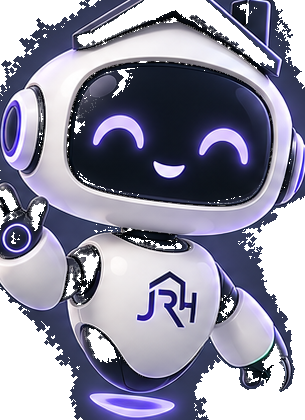
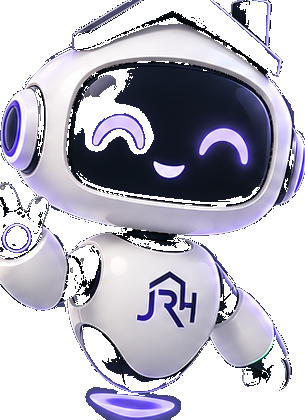
Show the full JRH IA bot on mobile home and chat instead of the head crop.

diff --git a/remax_commission_calculator/static/css/mobile-app.css b/remax_commission_calculator/static/css/mobile-app.css
@@ -382,7 +382,7 @@
 
     .m-jrh-card__head {
         display: flex;
-        align-items: flex-start;
+        align-items: center;
         justify-content: space-between;
         gap: 12px;
         margin-bottom: 14px;
@@ -397,21 +397,26 @@
 
     .m-jrh-card__bot {
         flex: 0 0 auto;
-        width: 44px;
-        height: 44px;
+        width: 64px;
+        height: 96px;
         overflow: visible;
         background: transparent;
+        pointer-events: none;
     }
 
     .m-jrh-card__bot img,
     .m-jrh-card__bot svg,
+    .m-jrh-card .jrh-bot-hero,
     .m-jrh-card .jrh-bot-avatar {
-        width: 44px;
-        height: 44px;
+        width: 64px;
+        height: 96px;
+        max-width: 64px;
+        max-height: 96px;
         object-fit: contain;
-        object-position: center;
+        object-position: center bottom;
         background: transparent;
         transform: none;
+        filter: drop-shadow(0 8px 14px color-mix(in srgb, var(--color-text) 14%, transparent));
     }
 
     .m-composer {
@@ -2121,11 +2126,11 @@
 
     body.is-jrh-ask-page .jrh-studio__empty-bot {
         display: flex;
-        align-items: center;
+        align-items: flex-end;
         justify-content: center;
-        width: 52px;
-        height: 52px;
-        margin: 6px 0 2px;
+        width: 88px;
+        height: 112px;
+        margin: 8px 0 4px;
         border-radius: 0;
         overflow: visible;
         background: transparent;
@@ -2137,16 +2142,17 @@
 
     body.is-jrh-ask-page .jrh-studio__empty-bot img,
     body.is-jrh-ask-page .jrh-studio__empty-bot svg,
+    body.is-jrh-ask-page .jrh-studio__empty-bot .jrh-bot-hero,
     body.is-jrh-ask-page .jrh-studio__empty-bot .jrh-bot-avatar {
-        width: 52px !important;
-        height: 52px !important;
-        max-width: 52px;
-        max-height: 52px;
+        width: auto !important;
+        height: 112px !important;
+        max-width: 88px;
+        max-height: 112px;
         object-fit: contain !important;
-        object-position: center;
+        object-position: center bottom;
         transform: none;
         background: transparent !important;
-        filter: none;
+        filter: drop-shadow(0 10px 16px color-mix(in srgb, var(--color-text) 16%, transparent));
         animation: none;
         border-radius: 0;
     }

diff --git a/remax_commission_calculator/templates/dashboard/jrh_ask.html b/remax_commission_calculator/templates/dashboard/jrh_ask.html
@@ -113,7 +113,7 @@
             {% if not jrh_ask and not jrh_result %}
             <div class="jrh-studio__empty">
                 <div class="jrh-studio__empty-bot hide-desktop">
-                    {% with variant='avatar', width=52, height=52, decorative=true %}
+                    {% with variant='hero', width=80, height=112, decorative=true %}
                     {% include "dashboard/_jrh_mascot.html" %}
                     {% endwith %}
                 </div>

diff --git a/remax_commission_calculator/templates/dashboard/_m_home_agent.html b/remax_commission_calculator/templates/dashboard/_m_home_agent.html
@@ -42,7 +42,7 @@
                 <h2>{{ t('jrh_hero_question') }}</h2>
             </div>
             <div class="m-jrh-card__bot">
-                {% with variant='avatar', width=56, height=56, decorative=true %}
+                {% with variant='hero', width=64, height=96, decorative=true %}
                 {% include "dashboard/_jrh_mascot.html" %}
                 {% endwith %}
             </div>
